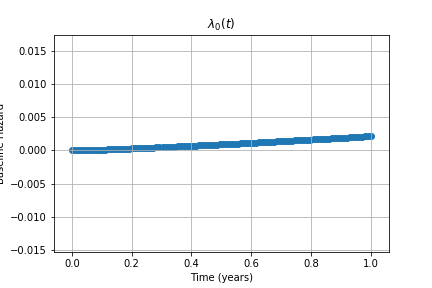
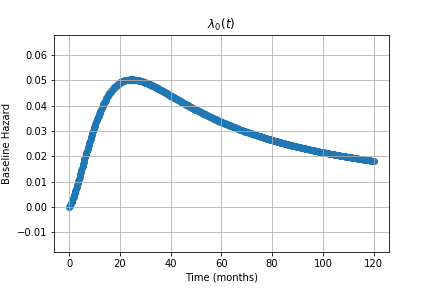
Updated code to monthly estimation

Changed region(s): [[0.0, 0.125, 0.9028, 1.0]]

diff --git a/HW 2/main.py b/HW 2/main.py
@@ -32,9 +32,6 @@ filename = 'static.csv'
 filepath = os.path.join('.', data_folder, filename)
 static_df = pd.read_csv(filepath)
 # Estimate static parameters
-# Create normalized ratio of unpaid balance
-static_df['upb_ratio'] = static_df['Act_endg_upb'].divide(
-        static_df['orig_upb'])
 # Convert the percentage covariates to decimals
 per_cols = ['orig_dti', 'orig_ltv', 'cpn_gap']
 static_df[per_cols] /= 100
@@ -45,8 +42,8 @@ param = np.random.uniform(size=len(covar_cols) + 2)
 # param = np.array([0.01, 0.02, 0.2, 0.04])
 # Since the times are in months, convert them to yearly time to make them the
 # same units as the coupon gap
-tb = static_df['period_begin'].values/12
-te = static_df['period_end'].values/12
+tb = static_df['period_begin'].values
+te = static_df['period_end'].values
 event = static_df['prepay'].values
 
 eps = np.finfo(float).eps
@@ -74,13 +71,13 @@ print('Final LLK: {:.2f}'.format(-fnc.log_log_like(sol, tb, te,
 print('\nParameters:')
 print('gamma =', gamma, '\np =', p, '\nCoupon Gap Coef =', beta[0],
       '\nSummer Indicator =', beta[1])
-print('\nRespective Standard Errors:', ', '.join(std_err.round(2).astype(str)))
+print('\nRespective Standard Errors:', ', '.join(std_err.round(3).astype(str)))
 print('\nProportional Standard Errors:', ', '.join(prop_std_err.round(
         1).astype(str)))
 
 # %%
-# Plot the baseline hazard rate
-t = np.linspace(0, 30, 500)
+# Plot the baseline hazard rate for 10 years
+t = np.linspace(0, 120, 500)
 lambda_0 = gamma*p*((gamma*t)**(p-1))/(1 + (gamma*t)**p)
 folder = 'Plots'
 if not os.path.exists(folder):
@@ -88,7 +85,7 @@ if not os.path.exists(folder):
 
 plt.scatter(t, lambda_0)
 plt.grid(True)
-plt.xlabel('Time (years)')
+plt.xlabel('Time (months)')
 plt.ylabel('Baseline Hazard')
 plt.title(r'$\lambda_0(t)$')
 plt.savefig(os.path.join(folder, 'lambda_0.png'))
@@ -130,15 +127,15 @@ dynamic_df[per_cols] /= 100
 covar_cols = ['cpn_gap', 'summer']
 covars = dynamic_df[covar_cols].values
 # Provide guess = static estimation
-param = np.array([14.5, 2.1, 22.5, -2.4])
-tb = dynamic_df['period_begin'].values/12
-te = dynamic_df['period_end'].values/12
+param = np.array([0.045, 2.234, 0.696, -2.270])
+tb = dynamic_df['period_begin'].values
+te = dynamic_df['period_end'].values
 event = dynamic_df['prepay'].values
 
 eps = np.finfo(float).eps
 bounds = ((eps, None), (eps, None), (None, None), (None, None))
 
-# Run optimizer
+# Run optimizer. WARNING!!! MIGHT TAKE UPTO 15 min depending upon config
 res_dyn = minimize(fun=fnc.log_log_like, x0=param, args=(
         tb, te, event, covars), jac=fnc.log_log_grad, bounds=bounds,
                    method='L-BFGS-B', options={'disp': True})
@@ -163,7 +160,7 @@ print('\nParameters:')
 print('gamma =', gamma_dyn, '\np =', p_dyn, '\nCoupon Gap Coef =', beta_dyn[0],
       '\nSummer Indicator =', beta_dyn[1])
 print('\nRespective Standard Errors:', ', '.join(
-        std_err_dyn.round(2).astype(str)))
+        std_err_dyn.round(3).astype(str)))
 print('\nProportional Standard Errors:', ', '.join(prop_std_err_dyn.round(
         1).astype(str)))
 # %%
